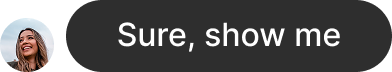
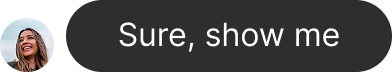
perf: SSR landing page, lazy-load below-fold sections, fix nav layout
- Converted page.tsx to server component to enable SSR (no more blank screen on load)
- Extracted waitlist state into WaitlistHero/WaitlistCTA client wrappers
- Lazy-loaded HowItWorks, FAQSection, WaitlistCTA with next/dynamic to reduce initial JS bundle
- Added hero-bg.png preload in layout.tsx for faster LCP
- Added "use client" to LandingFooter (had mouse event handlers)
- Fixed hero left-side bounce by removing framer-motion layout prop from chat bubbles
- Moved navbar links to right side with proper gap before JOIN WAITLIST button

Changed region(s): [[0.4898, 0.3056, 0.8878, 0.6667], [0.2755, 0.3056, 0.4898, 0.6667]]

diff --git a/app/page.tsx b/app/page.tsx
@@ -1,49 +1,22 @@
-"use client";
-
-import { useState } from "react";
+import dynamic from "next/dynamic";
 import LandingNavbar from "@/components/landing/LandingNavbar";
-import HeroSection from "@/components/landing/HeroSection";
+import WaitlistHero from "@/components/landing/WaitlistHero";
 import TrustStrip from "@/components/landing/TrustStrip";
 import PainSection from "@/components/landing/PainSection";
-import HowItWorks from "@/components/landing/HowItWorks";
 import UseCases from "@/components/landing/UseCases";
 import FeaturesSection from "@/components/landing/FeaturesSection";
 import ComparisonTable from "@/components/landing/ComparisonTable";
-import CTASection from "@/components/landing/CTASection";
-import FAQSection from "@/components/landing/FAQSection";
 import LandingFooter from "@/components/landing/LandingFooter";
 
+const HowItWorks = dynamic(() => import("@/components/landing/HowItWorks"));
+const FAQSection = dynamic(() => import("@/components/landing/FAQSection"));
+const WaitlistCTA = dynamic(() => import("@/components/landing/WaitlistCTA"));
+
 export default function HomePage() {
-  const [email, setEmail] = useState("");
-  const [submitted, setSubmitted] = useState(false);
-  const [loading, setLoading] = useState(false);
-
-  const handleJoin = async (emailOverride?: string) => {
-    const target = emailOverride || email;
-    if (!target.includes("@")) return;
-    setLoading(true);
-    try {
-      await fetch("/api/waitlist", {
-        method: "POST",
-        headers: { "Content-Type": "application/json" },
-        body: JSON.stringify({ email: target }),
-      });
-      setSubmitted(true);
-    } catch {
-      setSubmitted(true);
-    } finally {
-      setLoading(false);
-    }
-  };
-
-  const scrollToCTA = () => {
-    document.getElementById("cta-section")?.scrollIntoView({ behavior: "smooth", block: "center" });
-  };
-
   return (
     <div style={{ fontFamily: "'Poppins', sans-serif", background: "#ffffff", color: "#0d0d0d", overflowX: "hidden" }}>
-      <LandingNavbar onJoinClick={scrollToCTA} />
-      <HeroSection email={email} setEmail={setEmail} onJoin={handleJoin} submitted={submitted} loading={loading} />
+      <LandingNavbar />
+      <WaitlistHero />
       <TrustStrip />
       <PainSection />
       <HowItWorks />
@@ -51,7 +24,7 @@ export default function HomePage() {
       <FeaturesSection />
       <ComparisonTable />
       <div id="cta-section">
-        <CTASection email={email} setEmail={setEmail} onJoin={handleJoin} submitted={submitted} loading={loading} />
+        <WaitlistCTA />
       </div>
       <FAQSection />
       <LandingFooter />

diff --git a/components/landing/HeroSection.tsx b/components/landing/HeroSection.tsx
@@ -15,9 +15,9 @@ const BUBBLES = [
   { id: 1, type: "bot", src: "/chat-bubble-1.png", alt: "Here's your 30-day home workout plan", width: 240, height: 110, mr: 0 },
   { id: 2, type: "user", src: "/user-bubble-1.png", alt: "Looks good. Do you have more plans?", width: 240, height: 80, mr: 140 },
   { id: 3, type: "bot", src: "/chat-bubble-2.png", alt: "Yes! I have 8-week fat loss and muscle gain programs", width: 240, height: 100, mr: 0 },
-  { id: 4, type: "user", src: "/user-bubble-2.png", alt: "Sure, show me", width: 240, height: 70, mr: 140 },
+  { id: 4, type: "user", src: "/user-bubble-2.png", alt: "Sure, show me", width: 240, height: 60, mr: 140 },
   { id: 5, type: "bot", src: "/chat-bubble-3.png", alt: "Here are my popular programs", width: 240, height: 110, mr: 0 },
-  { id: 6, type: "user", src: "/user-bubble-3.png", alt: "I need this plan!", width: 240, height: 70, mr: 140 },
+  { id: 6, type: "user", src: "/user-bubble-3.png", alt: "I need this plan!", width: 240, height: 60, mr: 140 },
 ];
 
 export default function HeroSection({ onJoin, submitted, loading }: HeroProps) {
@@ -112,10 +112,10 @@ export default function HeroSection({ onJoin, submitted, loading }: HeroProps) {
           <p style={{
             fontFamily: "'Poppins', sans-serif",
             fontWeight: 400,
-            fontSize: 16,
+            fontSize: 18,
             color: "#2a2a2a",
             lineHeight: 1.68,
-            maxWidth: 430,
+            maxWidth: 450,
             margin: 0,
           }}>
             Auto-reply to every comment, grow your followers, and close sales

diff --git a/components/landing/LandingNavbar.tsx b/components/landing/LandingNavbar.tsx
@@ -1,6 +1,6 @@
 "use client";
 
-export default function LandingNavbar({ onJoinClick }: { onJoinClick: () => void }) {
+export default function LandingNavbar() {
   const links = ["How it works", "Use Cases", "Pricing", "Learn"];
 
   return (
@@ -42,7 +42,7 @@ export default function LandingNavbar({ onJoinClick }: { onJoinClick: () => void
         </span>
 
         {/* Nav Links */}
-        <div style={{ display: "flex", alignItems: "center", gap: 4, flex: 1 }}>
+        <div style={{ display: "flex", alignItems: "center", gap: 4, marginLeft: "auto", marginRight: 16 }}>
           {links.map(l => (
             <button
               key={l}
@@ -74,9 +74,10 @@ export default function LandingNavbar({ onJoinClick }: { onJoinClick: () => void
         </div>
 
         {/* CTA */}
-        <button
-          onClick={onJoinClick}
+        <a
+          href="#cta-section"
           style={{
+            textDecoration: "none",
             fontFamily: "'Poppins', sans-serif",
             fontWeight: 500,
             fontSize: 14,
@@ -94,7 +95,7 @@ export default function LandingNavbar({ onJoinClick }: { onJoinClick: () => void
           onMouseLeave={e => { e.currentTarget.style.background = "#ffffff"; }}
         >
           JOIN WAITLIST
-        </button>
+        </a>
       </div>
     </nav>
   );

diff --git a/components/landing/WaitlistHero.tsx b/components/landing/WaitlistHero.tsx
@@ -1,0 +1,37 @@
+"use client";
+import { useState } from "react";
+import HeroSection from "./HeroSection";
+
+export default function WaitlistHero() {
+  const [localEmail, setLocalEmail] = useState("");
+  const [submitted, setSubmitted] = useState(false);
+  const [loading, setLoading] = useState(false);
+
+  const handleJoin = async (emailOverride?: string) => {
+    const target = emailOverride || localEmail;
+    if (!target.includes("@")) return;
+    setLoading(true);
+    try {
+      await fetch("/api/waitlist", {
+        method: "POST",
+        headers: { "Content-Type": "application/json" },
+        body: JSON.stringify({ email: target }),
+      });
+      setSubmitted(true);
+    } catch {
+      setSubmitted(true);
+    } finally {
+      setLoading(false);
+    }
+  };
+
+  return (
+    <HeroSection
+      email={localEmail}
+      setEmail={setLocalEmail}
+      onJoin={handleJoin}
+      submitted={submitted}
+      loading={loading}
+    />
+  );
+}

diff --git a/components/landing/WaitlistCTA.tsx b/components/landing/WaitlistCTA.tsx
@@ -1,0 +1,35 @@
+"use client";
+import { useState } from "react";
+import CTASection from "./CTASection";
+
+export default function WaitlistCTA() {
+  const [submitted, setSubmitted] = useState(false);
+  const [loading, setLoading] = useState(false);
+
+  const handleJoin = async (emailOverride?: string) => {
+    if (!emailOverride?.includes("@")) return;
+    setLoading(true);
+    try {
+      await fetch("/api/waitlist", {
+        method: "POST",
+        headers: { "Content-Type": "application/json" },
+        body: JSON.stringify({ email: emailOverride }),
+      });
+      setSubmitted(true);
+    } catch {
+      setSubmitted(true);
+    } finally {
+      setLoading(false);
+    }
+  };
+
+  return (
+    <CTASection
+      email=""
+      setEmail={() => {}}
+      onJoin={handleJoin}
+      submitted={submitted}
+      loading={loading}
+    />
+  );
+}

diff --git a/app/layout.tsx b/app/layout.tsx
@@ -16,6 +16,7 @@ export default function RootLayout({
   return (
     <html lang="en" suppressHydrationWarning>
       <head>
+        <link rel="preload" as="image" href="/hero-bg.png" />
         <link rel="preconnect" href="https://fonts.googleapis.com" />
         <link rel="preconnect" href="https://fonts.gstatic.com" crossOrigin="anonymous" />
         <link

diff --git a/components/landing/LandingFooter.tsx b/components/landing/LandingFooter.tsx
@@ -1,3 +1,5 @@
+"use client";
+
 export default function LandingFooter() {
   return (
     <footer style={{
